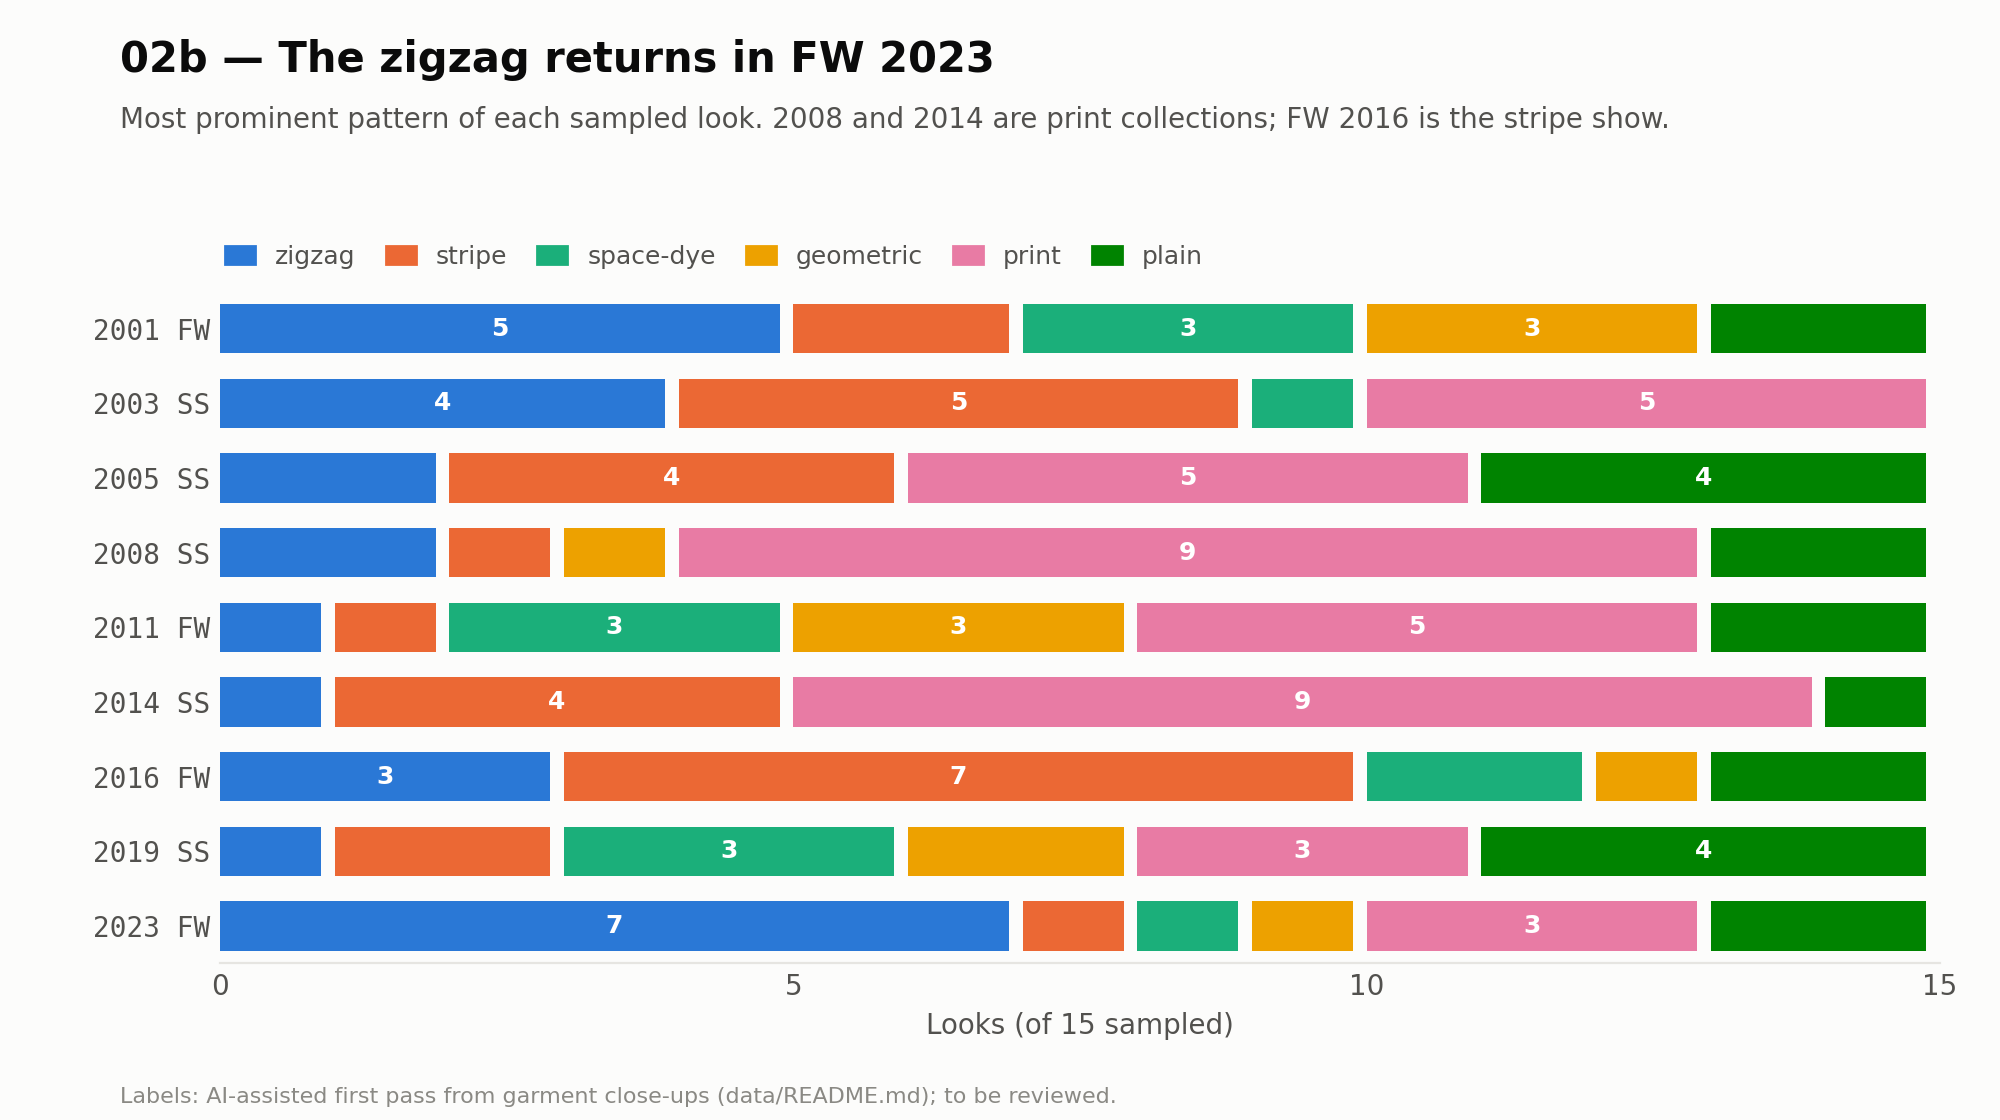
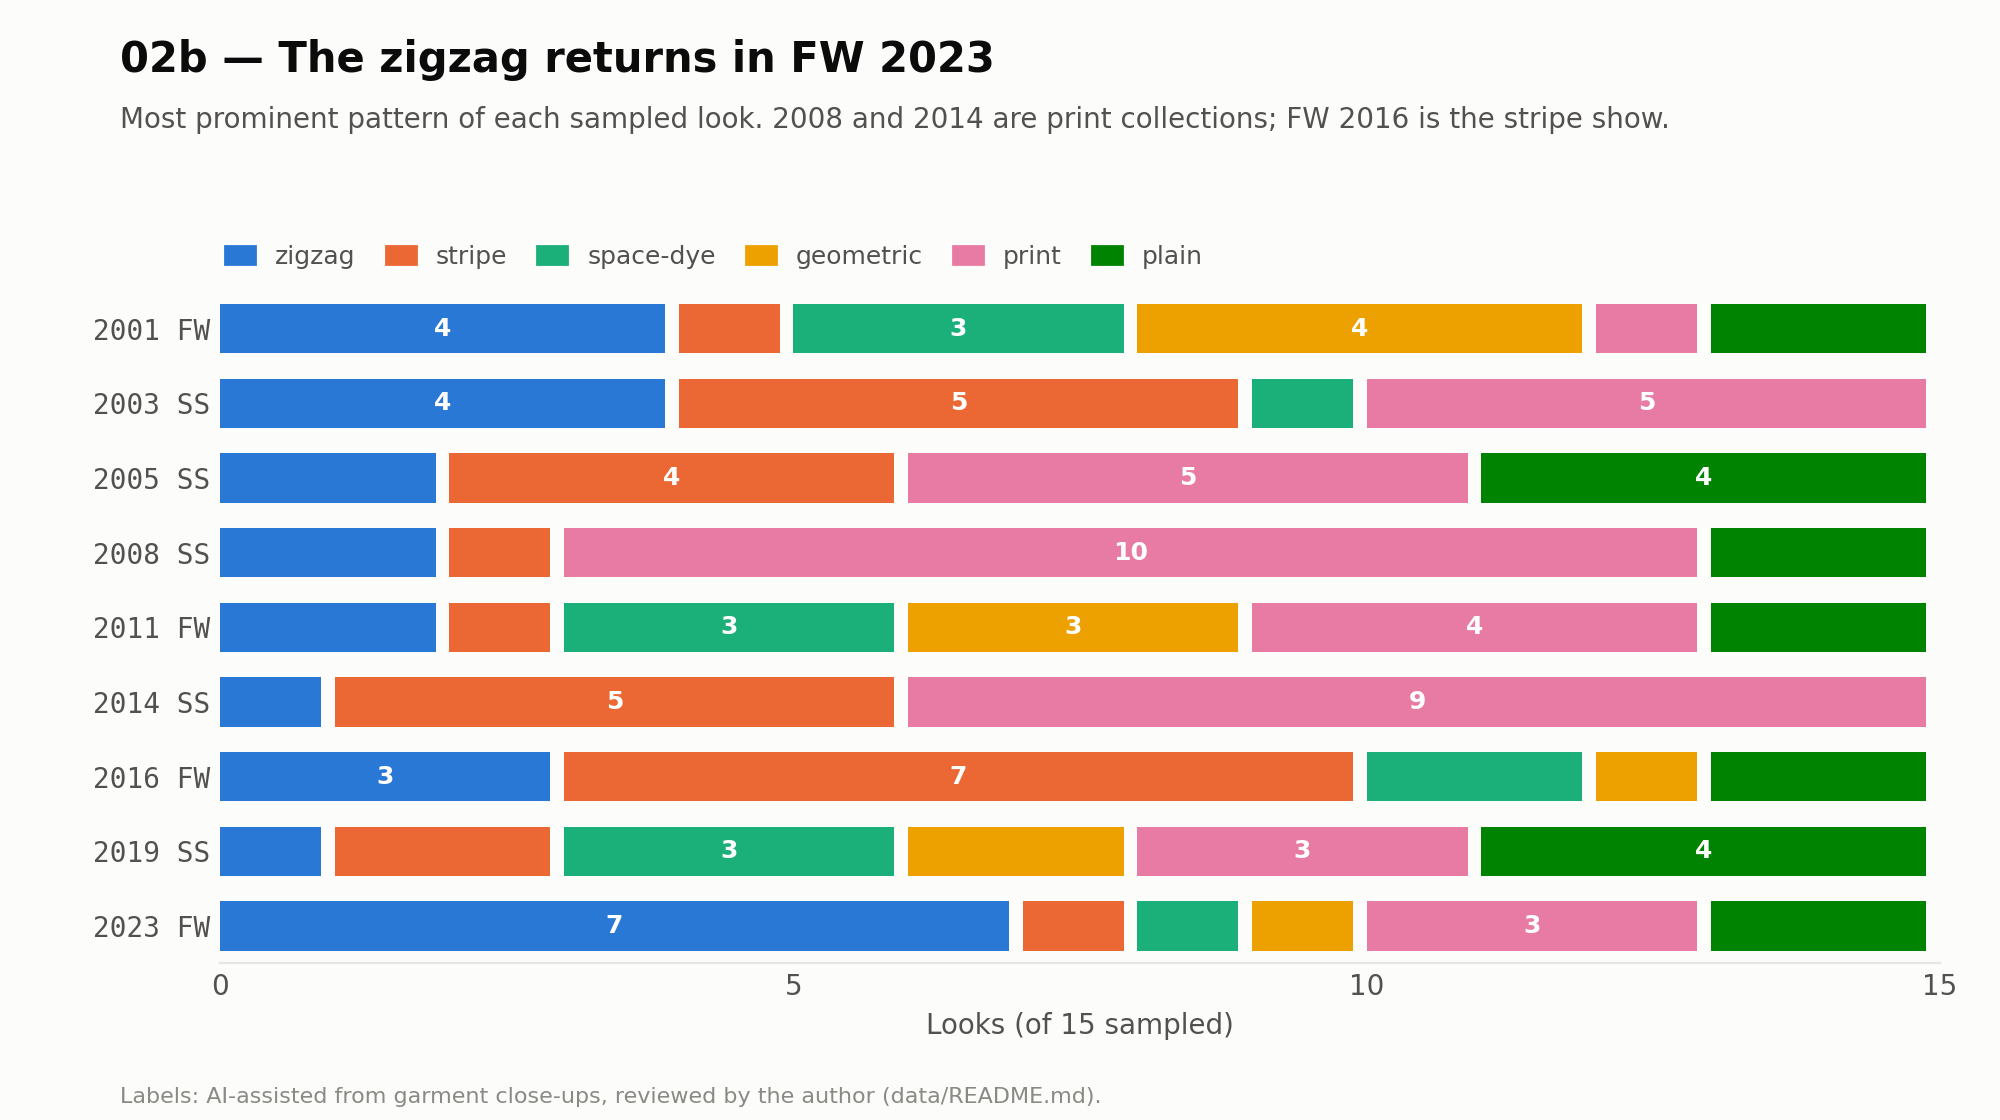
Approve all pattern labels as originally proposed
Undo the six accidental changes from the review page and mark all 135
labels as reviewed by the author; results return to the original values.

diff --git a/src/pattern_analysis.py b/src/pattern_analysis.py
@@ -1,7 +1,7 @@
 """Chapter 02, part 2: pattern types.
 
 Pattern labels in looks.csv mark each look's most prominent pattern. They are
-an AI-assisted first pass (see data/README.md) and should be reviewed.
+AI-assisted and reviewed by the author (see data/README.md).
 
 1. The pattern mix of each collection.
 2. Can a classifier learn pattern type from garment-only CLIP embeddings?
@@ -69,7 +69,7 @@ def pattern_mix(looks: pd.DataFrame) -> None:
         ax.spines[side].set_visible(False)
     titled(fig, "02b — The zigzag returns in FW 2023",
            "Most prominent pattern of each sampled look. 2008 and 2014 are print collections; FW 2016 is the stripe show.",
-           "Labels: AI-assisted first pass from garment close-ups (data/README.md); to be reviewed.")
+           "Labels: AI-assisted from garment close-ups, reviewed by the author (data/README.md).")
     save(fig, "ch02b_pattern_mix.png")
 
 

diff --git a/README.md b/README.md
@@ -40,7 +40,7 @@ FW 2016 is the busiest and most striped collection in the sample (median pattern
 
 ![Pattern mix](figures/ch02b_pattern_mix.png)
 
-Labelling each look's most prominent pattern ([definitions](data/README.md#pattern-labels); AI-assisted first pass, to be reviewed) shows the house cycling through patterns: prints dominate SS 2008 (10 of 15) and SS 2014 (9), stripes dominate FW 2016 (7), and **the zigzag returns in FW 2023 (7 of 15)**, its strongest showing in the sample.
+Labelling each look's most prominent pattern ([definitions](data/README.md#pattern-labels); AI-assisted labels, reviewed by the author) shows the house cycling through patterns: prints dominate SS 2008 (10 of 15) and SS 2014 (9), stripes dominate FW 2016 (7), and **the zigzag returns in FW 2023 (7 of 15)**, its strongest showing in the sample.
 
 ![Pattern classifier](figures/ch02c_pattern_classifier.png)
 
@@ -204,8 +204,7 @@ python src/ablation.py            # -> figures/ch06_ablation.png
 - [x] Garment segmentation (SegFormer-B2)
 - [x] First collection: SS 2005, 15 looks
 - [x] Nine collections spanning 2001–2023 (135 looks), imported automatically from the archive lookbooks
-- [x] Pattern labels (AI-assisted first pass) and pattern classifier (chapter 02b–c)
-- [ ] Human review of the pattern labels
+- [x] Pattern labels (AI-assisted, reviewed by the author) and pattern classifier (chapter 02b–c)
 - [ ] Pre-2001 collections (Ottavio & Rosita era) from other sources
 - [x] Chapters 01–03: palette, pattern and complexity over time
 - [x] Hand-built visual fingerprints, collection similarity and era map (chapters 04–05)

diff --git a/data/README.md b/data/README.md
@@ -34,7 +34,7 @@
 | `print` | floral, figurative and graphic prints |
 | `plain` | solid colour or tonal/textured knit without a distinct pattern |
 
-**How they were made.** The labels are an AI-assisted first pass: Claude (an AI assistant) reviewed segmented garment close-ups of all 135 looks and assigned each look's most prominent pattern. Ambiguous calls (14 looks) are flagged with `pattern label uncertain` in `notes`. Labels checked by the project author are marked `pattern_reviewed = True`. Unreviewed labels are still the AI first pass. Run `python review_labels.py` to review them.
+**How they were made.** The labels are an AI-assisted first pass: Claude (an AI assistant) reviewed segmented garment close-ups of all 135 looks and assigned each look's most prominent pattern. Ambiguous calls (14 looks) are flagged with `pattern label uncertain` in `notes`. The project author then reviewed all 135 labels with `review_labels.py` and approved them as they stand (`pattern_reviewed = True`). Use the same page to revise labels or review new looks.
 
 ## Copyright
 
